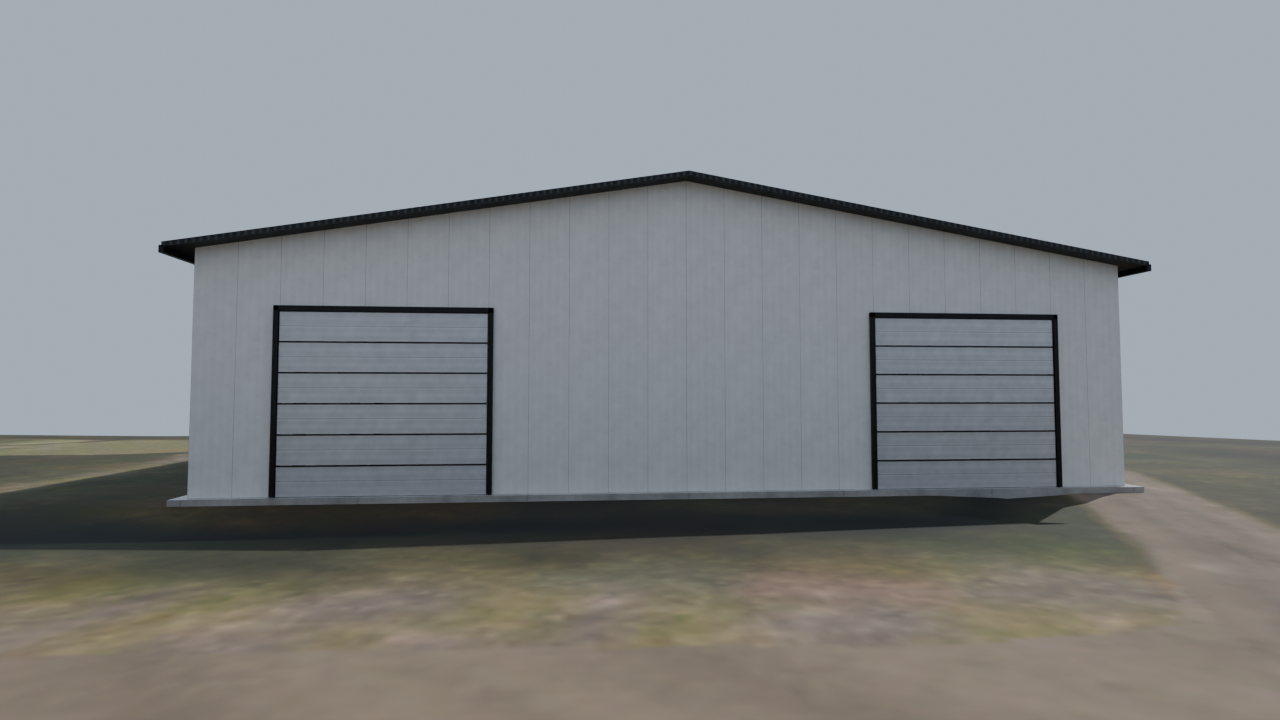
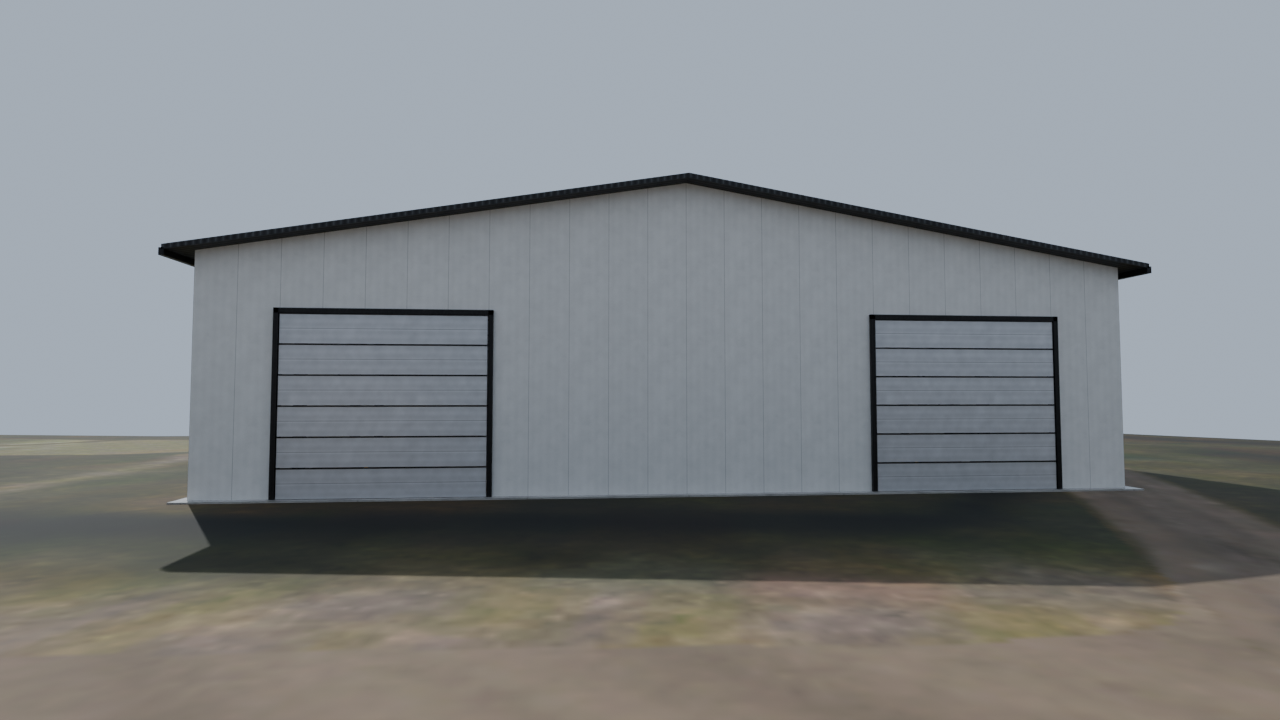
Terreno nivelado em volta do galpão com rampa suave e fundação mais funda na cena do Blender

diff --git a/blender/mapa_galpao.py b/blender/mapa_galpao.py
@@ -19,7 +19,10 @@ HOUSE2 = (-7.46, 45.43, 0.38, 241.1472)
 FRONT_X = -30.0
 LEFT_Y = 13.0
 YAW = 90.0
-FLOOR_LIFT = 0.15
+FLOOR_LIFT = 0.1
+FLAT_MARGIN = 2.0
+FLAT_BLEND = 6.0
+FLAT_BELOW = 0.04
 COLLECTION = "MAPA"
 
 
@@ -116,6 +119,25 @@ def house2(col):
     return len(used)
 
 
+def flatten(terrain_obj, floor, W, D):
+    x0, x1 = FRONT_X - D - FLAT_MARGIN, FRONT_X + FLAT_MARGIN
+    y0, y1 = LEFT_Y - FLAT_MARGIN, LEFT_Y + W + FLAT_MARGIN
+    target = floor - FLAT_BELOW
+    changed = 0
+    for v in terrain_obj.data.vertices:
+        dx = max(x0 - v.co.x, 0.0, v.co.x - x1)
+        dy = max(y0 - v.co.y, 0.0, v.co.y - y1)
+        distance = math.hypot(dx, dy)
+        if distance >= FLAT_BLEND:
+            continue
+        t = 1.0 - distance / FLAT_BLEND
+        weight = t * t * (3 - 2 * t)
+        v.co.z = v.co.z + (target - v.co.z) * weight
+        changed += 1
+    terrain_obj.data.update()
+    return changed
+
+
 def ground_at(grid, xs, zs, x, y):
     def nearest(values, v):
         return min(values, key=lambda a: abs(a - v))
@@ -135,7 +157,7 @@ def place_galpao(grid, xs, zs):
             h = ground_at(grid, xs, zs, FRONT_X - v, LEFT_Y + u)
             if h is not None:
                 samples.append(h)
-    floor = max(samples) + FLOOR_LIFT if samples else 0.0
+    floor = sum(samples) / len(samples) + FLOOR_LIFT if samples else 0.0
     anchor = bpy.data.objects.get("GalpaoPosicao")
     if anchor is None:
         anchor = bpy.data.objects.new("GalpaoPosicao", None)
@@ -167,7 +189,7 @@ def lighting():
         sun = bpy.data.objects.new("MapaSol", bpy.data.lights.new("MapaSol", "SUN"))
         scene.collection.objects.link(sun)
     sun.data.energy = 3.5
-    sun.rotation_euler = (math.radians(45), math.radians(15), math.radians(200))
+    sun.rotation_euler = (math.radians(50), math.radians(0), math.radians(-60))
     world = scene.world or bpy.data.worlds.new("World")
     scene.world = world
     world.use_nodes = True
@@ -220,11 +242,12 @@ def main():
     cx, cz, half = meta()
     grid, xs, zs = heights()
     col = collection(COLLECTION)
-    terrain(col, grid, xs, zs, cx, cz, half)
+    ground = terrain(col, grid, xs, zs, cx, cz, half)
     verts = house2(col)
     floor, (low, high) = place_galpao(grid, xs, zs)
+    flattened = flatten(ground, floor, 24.0, 16.0)
     lighting()
-    print(f"[MSC Duo] mapa: terreno {len(xs)}x{len(zs)}, casa 2 com {verts} vértices, piso do galpão em {floor:.2f} m (chão entre {low:.2f} e {high:.2f})")
+    print(f"[MSC Duo] mapa: terreno {len(xs)}x{len(zs)}, casa 2 com {verts} vértices, {flattened} pontos nivelados, piso do galpão em {floor:.2f} m (chão entre {low:.2f} e {high:.2f})")
     if "--render" in sys.argv:
         render()
     if "--save" in sys.argv:

diff --git a/blender/galpao.py b/blender/galpao.py
@@ -204,7 +204,7 @@ def roof_z(x):
 
 
 def floor(b):
-    b.box("Piso", "concreto", -0.3, -0.3, -0.3, W + 0.3, D + 0.3, 0.0)
+    b.box("Piso", "concreto", -0.3, -0.3, -1.2, W + 0.3, D + 0.3, 0.0)
     for x0, x1 in GATES:
         for y in (1.0, 9.5):
             b.box("Faixas", "faixa", x0, y - 0.06, 0.001, x1, y + 0.06, 0.004)
